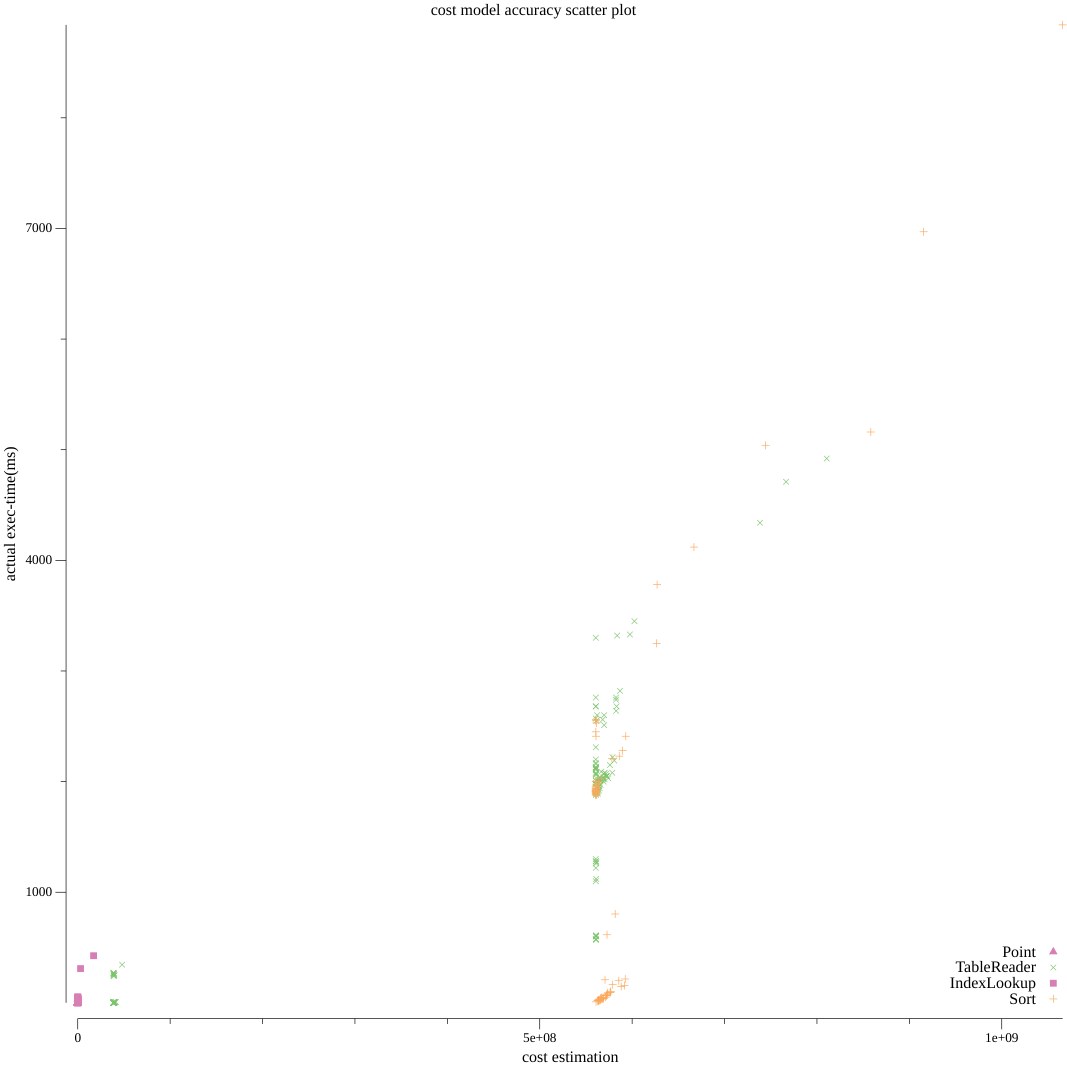
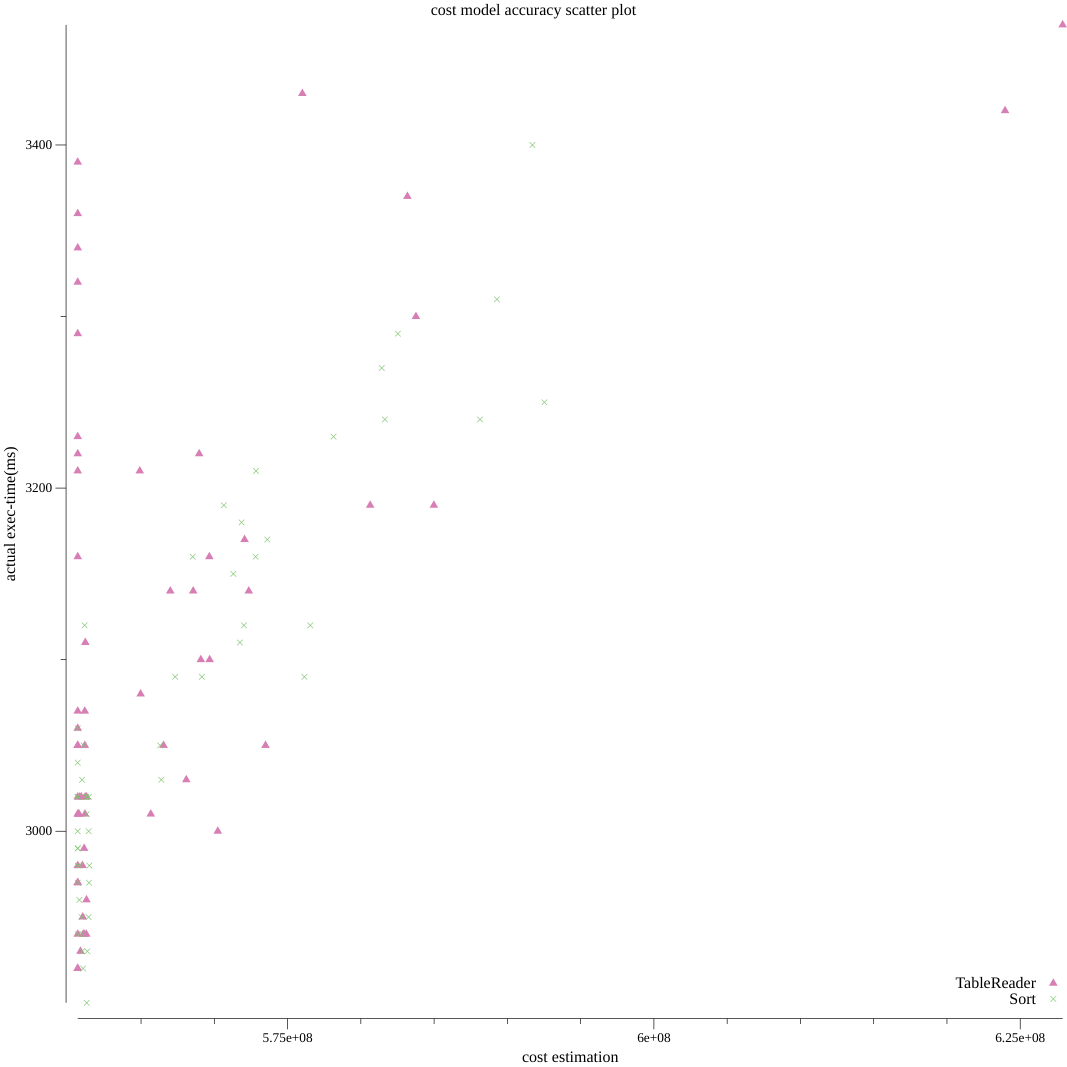
fixup

diff --git a/cost/query_imdb.go b/cost/query_imdb.go
@@ -36,9 +36,9 @@ SELECT * FROM title WHERE episode_nr BETWEEN ? AND ? ORDER BY episode_nr;       
 
 func genIMDBQueries(ins tidb.Instance, db string) Queries {
 	queries := make(Queries, 0, 128)
-	n := 20
 
 	// point queries
+	n := 10
 	queries = append(queries, genPointQueries(ins, n, "*", "", db, "cast_info", "movie_id")...)
 	queries = append(queries, genPointQueries(ins, n, "*", "", db, "cast_info", "person_id")...)
 	queries = append(queries, genPointQueries(ins, n, "*", "", db, "cast_info", "person_id", "movie_id")...)
@@ -62,7 +62,7 @@ func genIMDBQueries(ins tidb.Instance, db string) Queries {
 	queries = append(queries, genPointQueries(ins, n, "*", "order by episode_nr", db, "title", "episode_nr")...)
 
 	// range queries
-	queries = append(queries, genIMDBRangeQueries(n, db)...)
+	queries = append(queries, genIMDBRangeQueries(20, db)...)
 
 	return queries
 }
@@ -73,30 +73,46 @@ func genIMDBRangeQueries(n int, db string) Queries {
 	for _, sel := range []string{"*"} {
 		for _, ordered := range []bool{true, false} {
 			for _, col := range []string{"production_year", "episode_nr"} {
-				for i := 0; i < n; i++ {
-					orderby := ""
-					if ordered {
-						orderby = "order by " + col
+				orderby := ""
+				if ordered {
+					orderby = "order by " + col
+				}
+
+				if col == "production_year" {
+					// 1500 ~ 2020
+					step := (2020 - 1500) / n
+					for i := 0; i < n; i++ {
+						gap := step * (i + 1)
+						l := 1500 + rand.Intn((2020-1500)-gap+1)
+						r := l + gap + rand.Intn(step)
+						if r > 2020 {
+							r = 2020
+						}
+						cond := fmt.Sprintf("production_year>=%v and production_year<=%v", l, r)
+						q := fmt.Sprintf("select %v from %v.%v where %v %v", sel, db, "title", cond, orderby)
+						queries = append(queries, Query{
+							SQL:   q,
+							Label: "",
+						})
+					}
+				} else if col == "episode_nr" {
+					// 0 ~ 2528072
+					step := 2528072 / n
+					for i := 0; i < n; i++ {
+						gap := step * (i + 1)
+						l := rand.Intn(2528072 - gap + 1)
+						r := l + gap + rand.Intn(step)
+						if r > 2528072 {
+							r = 2528072
+						}
+						cond := fmt.Sprintf("episode_nr>=%v and episode_nr<=%v", l, r)
+						q := fmt.Sprintf("select %v from %v.%v where %v %v", sel, db, "title", cond, orderby)
+						queries = append(queries, Query{
+							SQL:   q,
+							Label: "",
+						})
 					}
 
-					var cond string
-					if col == "production_year" {
-						// 1500 ~ 2020
-						l := 1500 + rand.Intn(2020-1500)
-						r := l + rand.Intn(2020-l)
-						cond = fmt.Sprintf("production_year>=%v and production_year<=%v", l, r)
-					} else if col == "episode_nr" {
-						// 0 ~ 2528072
-						l := rand.Intn(2528072)
-						r := l + rand.Intn(2528072-l)
-						cond = fmt.Sprintf("episode_nr>=%v and episode_nr<=%v", l, r)
-					}
-
-					q := fmt.Sprintf("select %v from %v.%v where %v %v", sel, db, "title", cond, orderby)
-					queries = append(queries, Query{
-						SQL:   q,
-						Label: "",
-					})
 				}
 			}
 		}

diff --git a/cost/costeval.go b/cost/costeval.go
@@ -83,15 +83,19 @@ func evalOnDataset(ins tidb.Instance, db string, queryGenFunc func(ins tidb.Inst
 		fmt.Println("[cost-eval] read records from file successfully")
 	}
 
-	tmp := make(Records, 0, len(all))
-	
 	sort.Slice(all, func(i, j int) bool {
 		return all[i].TimeMS < all[j].TimeMS
 	})
-	
-	for _, r := range all {
-		fmt.Println(">>>> ", r.SQL, r.Cost, r.TimeMS)
 
+	tmp := make(Records, 0, len(all))
+	for _, r := range all {
+		if r.Label == "Point" {
+			continue
+		}
+		//if r.Cost < 4e8 || r.Cost > 7e8 || r.TimeMS > 3500 {
+		//	continue
+		//}
+		fmt.Println(">>>> ", r.SQL, r.Cost, r.TimeMS)
 		//if r.Cost < 1000 { // the cost of PointGet is always zero
 		//	continue
 		//}
